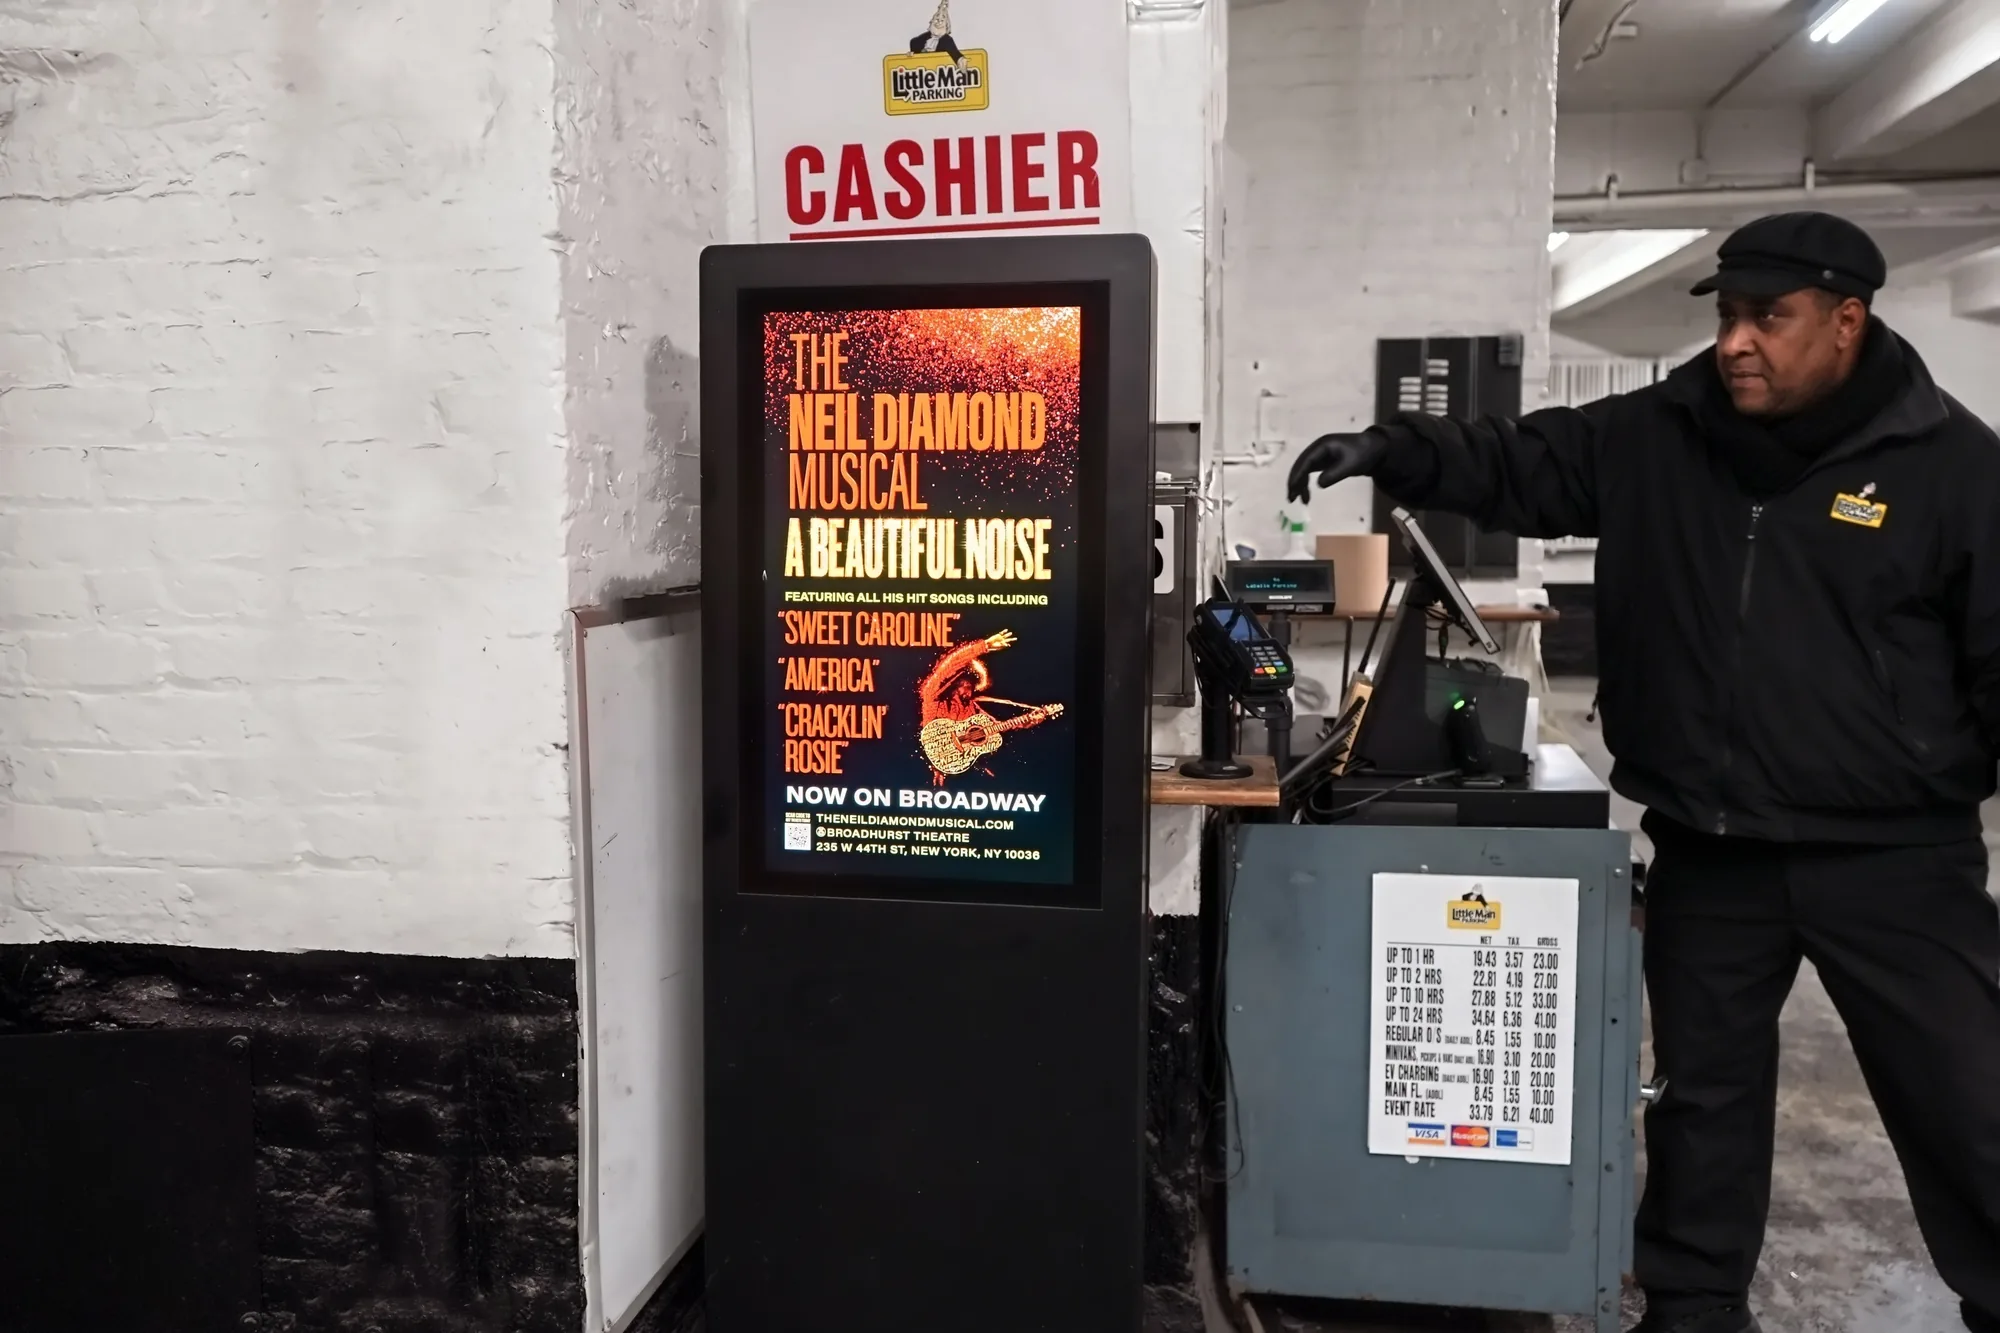
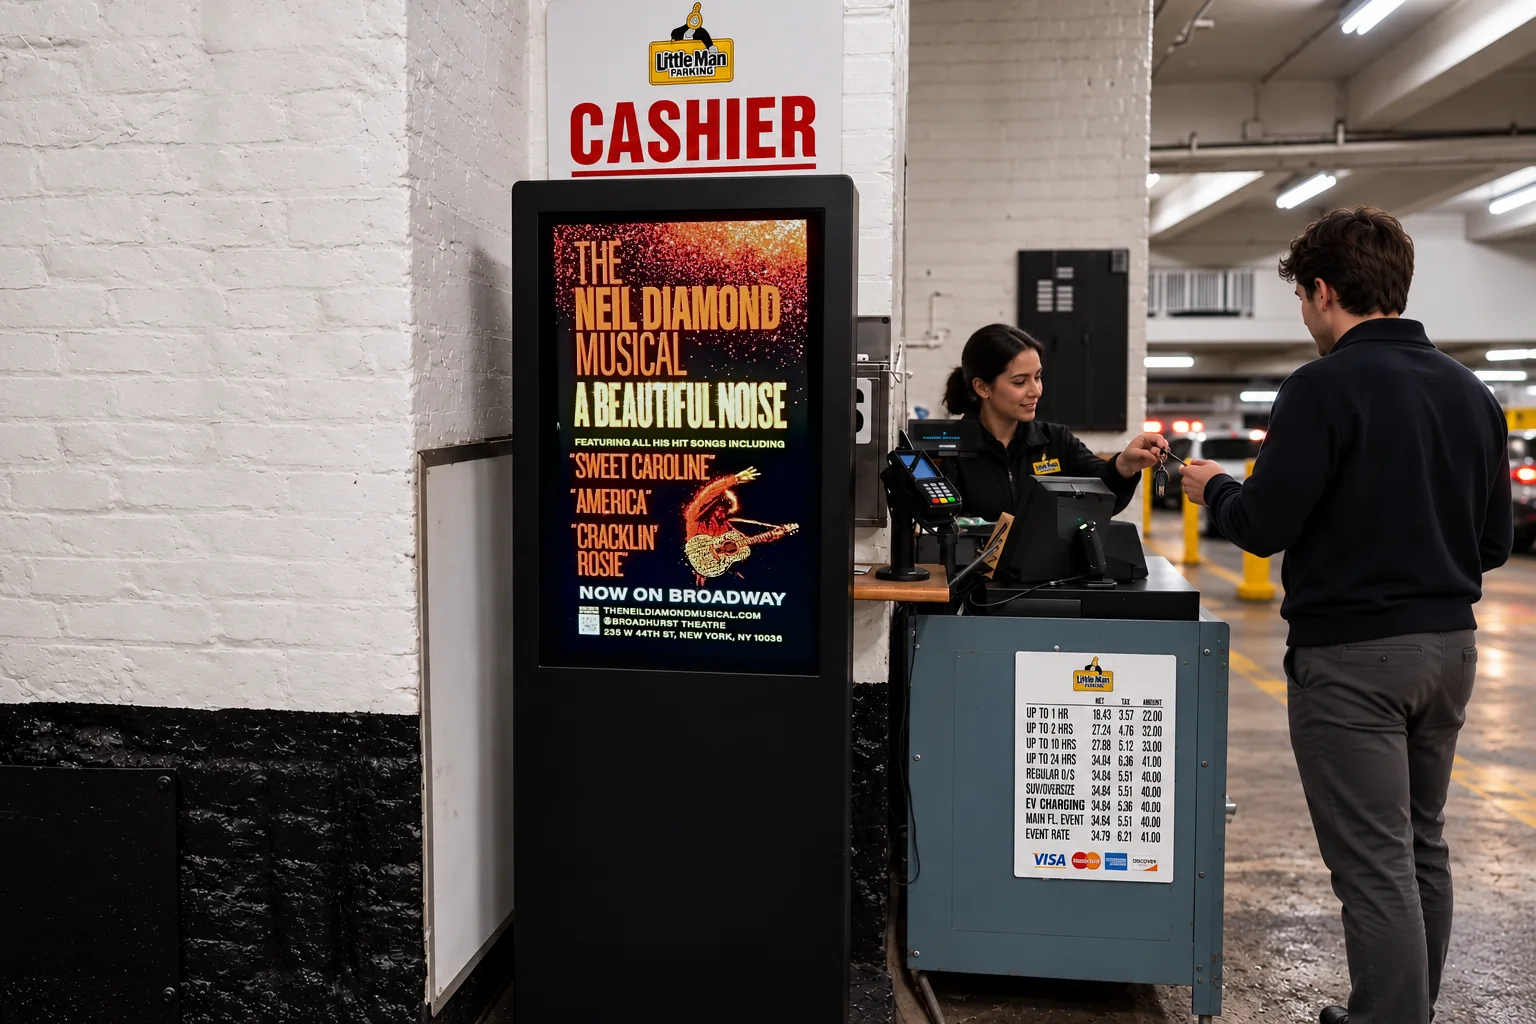
Fix home-page ad photos: real ad creative in new scenes, blue elevator wraps
- Lucid, United and A Beautiful Noise: new scene edits, with the original
  photographed screen (real creative, legal copy and QR codes) aligned and
  colour-matched back onto each display.
- United and A Beautiful Noise captioned "photo edited" on Home and Company;
  tile crops adjusted so the screen and people stay in frame.
- Hartford HealthCare elevator wraps: purple-to-blue hue and tone edit applied
  to the real photo at full resolution; all text, logos, helicopter markings
  and the floor directory are original pixels.
- Cache-busting ?v= hashes updated everywhere the four photos are used.
- README notes what was edited and why.

Claude-Session: https://claude.ai/code/session_01AkCNrgwNnwTd53czhfSVkS

diff --git a/components/pages/HomePage.jsx b/components/pages/HomePage.jsx
@@ -88,7 +88,7 @@ export default class HomePage extends React.Component {
       { name: 'Rate boards', biz: 'DIGITAL', stage: '02 · PARK', img: '/media/photos/ddrb-connecticut.webp?v=088e4141', pos: '50% 35%', href: '/formats#ddrb', desc: 'Live pricing up top, full-motion advertising below.', alt: 'A Lot Media digital rate board' },
       { name: 'Wallscapes', biz: 'STATIC', stage: '02 · PARK', img: '/media/photos/hartford-healthcare-wallscape.webp?v=0b3f98d9', pos: '50% 50%', href: '/formats#wallscape', desc: 'Large-format walls drivers face as they park.', alt: 'Hartford HealthCare wallscape' },
       { name: 'Digital panels', biz: 'DIGITAL', stage: '03 · WALK', img: '/media/photos/blank-street-interactive-panel.webp?v=6f1265ae', pos: '35% 50%', href: '/formats#panel', desc: 'Interactive screens — tap, scan and redeem.', alt: 'Man tapping his phone on an interactive digital panel' },
-      { name: 'Elevator wraps', biz: 'STATIC', stage: '03 · WALK', img: '/media/photos/hartford-healthcare-elevator-wraps.webp?v=20725f9d', pos: '50% 50%', href: '/formats#elevator', desc: 'Branded doors at the pause before the destination.', alt: 'Elevator door wraps' },
+      { name: 'Elevator wraps', biz: 'STATIC', stage: '03 · WALK', img: '/media/photos/hartford-healthcare-elevator-wraps.webp?v=30b1891b', pos: '50% 50%', href: '/formats#elevator', desc: 'Branded doors at the pause before the destination.', alt: 'Elevator door wraps' },
       { name: 'Events & venues', biz: 'EVENTS', stage: '04 · ACTIVATE', img: '/media/photos/stock-car-event.webp?v=d303b124', pos: '55% 50%', href: '/events', desc: 'Activations, VIP park & shuttle and game-day packages.', alt: 'Crowd filming a car at a live automotive event at night (stock photo)', stock: true }
     ];
     var pillars = [
@@ -531,7 +531,7 @@ export default class HomePage extends React.Component {
             </div>
             <div style={{ marginTop: "56px", display: "flex", flexWrap: "wrap", gap: "16px" }}>
               <figure className="alm-tile alm-wipe m-home-place" style={{ margin: "0", flex: "2 1 640px", height: "560px", position: "relative", overflow: "hidden", borderRadius: "16px", background: "#0B1220" }}>
-                <img className="m-home-lucid" src="/media/photos/lucid-digital-panel.webp?v=0437d0e2" alt="Travelers with luggage walking past a Lucid ad on an A Lot Media digital panel in a parking garage" style={{ width: "100%", height: "100%", objectFit: "cover", objectPosition: "40% 50%", display: "block" }} loading="lazy" decoding="async" />
+                <img className="m-home-lucid" src="/media/photos/lucid-digital-panel.webp?v=9b37ed49" alt="Travelers with luggage walking past a Lucid ad on an A Lot Media digital panel in a parking garage" style={{ width: "100%", height: "100%", objectFit: "cover", objectPosition: "40% 50%", display: "block" }} loading="lazy" decoding="async" />
                 <figcaption style={{ position: "absolute", left: "0", right: "0", bottom: "0", padding: "80px 28px 24px", background: "linear-gradient(180deg, rgba(11,18,32,0) 0%, rgba(11,18,32,0.82) 100%)", color: "#FFFFFF" }}>
                   <div style={{ display: "inline-flex", alignItems: "center", gap: "10px", marginBottom: "10px", fontSize: "15px", fontWeight: "600", letterSpacing: "-0.005em", opacity: "0.72" }}><span style={{ width: "7px", height: "7px", background: "#8FDCE8", borderRadius: "50%" }} />Digital</div>
                   <div style={{ fontSize: "22px", fontWeight: "650", letterSpacing: "-0.02em" }}>Lucid</div>
@@ -539,11 +539,11 @@ export default class HomePage extends React.Component {
                 </figcaption>
               </figure>
               <figure className="alm-tile alm-wipe m-home-place" style={{ margin: "0", flex: "1 1 320px", height: "560px", position: "relative", overflow: "hidden", borderRadius: "16px", background: "#0B1220" }}>
-                <img src="/media/photos/united-digital-panel.webp?v=f8d1849b" alt="United for Business ad on an A Lot Media digital panel beside a white sports car" style={{ width: "100%", height: "100%", objectFit: "cover", objectPosition: "30% 50%", display: "block" }} loading="lazy" decoding="async" />
+                <img src="/media/photos/united-digital-panel.webp?v=366cb758" alt="Commuters walking past a United for Business ad on an A Lot Media digital panel in a parking garage" style={{ width: "100%", height: "100%", objectFit: "cover", objectPosition: "19% 50%", display: "block" }} loading="lazy" decoding="async" />
                 <figcaption style={{ position: "absolute", left: "0", right: "0", bottom: "0", padding: "80px 28px 24px", background: "linear-gradient(180deg, rgba(11,18,32,0) 0%, rgba(11,18,32,0.82) 100%)", color: "#FFFFFF" }}>
                   <div style={{ display: "inline-flex", alignItems: "center", gap: "10px", marginBottom: "10px", fontSize: "15px", fontWeight: "600", letterSpacing: "-0.005em", opacity: "0.72" }}><span style={{ width: "7px", height: "7px", background: "#8FDCE8", borderRadius: "50%" }} />Digital</div>
                   <div style={{ fontSize: "22px", fontWeight: "650", letterSpacing: "-0.02em" }}>United</div>
-                  <div style={{ marginTop: "4px", fontSize: "14px", fontWeight: "600", color: "#D5DAE3" }}>Digital panel</div>
+                  <div style={{ marginTop: "4px", fontSize: "14px", fontWeight: "600", color: "#D5DAE3" }}>Digital panel · photo edited</div>
                 </figcaption>
               </figure>
               <figure className="alm-tile alm-wipe m-home-place" style={{ margin: "0", flex: "1 1 320px", height: "420px", position: "relative", overflow: "hidden", borderRadius: "16px", background: "#0B1220" }}>
@@ -555,11 +555,11 @@ export default class HomePage extends React.Component {
                 </figcaption>
               </figure>
               <figure className="alm-tile alm-wipe m-home-place" style={{ margin: "0", flex: "1 1 320px", height: "420px", position: "relative", overflow: "hidden", borderRadius: "16px", background: "#0B1220" }}>
-                <img src="/media/photos/a-beautiful-noise-panel.webp?v=2610293c" alt="A Beautiful Noise Broadway musical ad on a digital panel next to the garage cashier" style={{ width: "100%", height: "100%", objectFit: "cover", objectPosition: "50% 40%", display: "block" }} loading="lazy" decoding="async" />
+                <img src="/media/photos/a-beautiful-noise-panel.webp?v=d1e2b679" alt="A Beautiful Noise Broadway musical ad on a digital panel beside the garage cashier booth" style={{ width: "100%", height: "100%", objectFit: "cover", objectPosition: "93% 40%", display: "block" }} loading="lazy" decoding="async" />
                 <figcaption style={{ position: "absolute", left: "0", right: "0", bottom: "0", padding: "80px 28px 24px", background: "linear-gradient(180deg, rgba(11,18,32,0) 0%, rgba(11,18,32,0.82) 100%)", color: "#FFFFFF" }}>
                   <div style={{ display: "inline-flex", alignItems: "center", gap: "10px", marginBottom: "10px", fontSize: "15px", fontWeight: "600", letterSpacing: "-0.005em", opacity: "0.72" }}><span style={{ width: "7px", height: "7px", background: "#8FDCE8", borderRadius: "50%" }} />Digital</div>
                   <div style={{ fontSize: "22px", fontWeight: "650", letterSpacing: "-0.02em" }}>A Beautiful Noise</div>
-                  <div style={{ marginTop: "4px", fontSize: "14px", fontWeight: "600", color: "#D5DAE3" }}>Digital panel · Broadway</div>
+                  <div style={{ marginTop: "4px", fontSize: "14px", fontWeight: "600", color: "#D5DAE3" }}>Digital panel · Broadway · photo edited</div>
                 </figcaption>
               </figure>
               <figure className="alm-tile alm-wipe m-home-place" style={{ margin: "0", flex: "1 1 320px", height: "420px", position: "relative", overflow: "hidden", borderRadius: "16px", background: "#0B1220" }}>
@@ -571,7 +571,7 @@ export default class HomePage extends React.Component {
                 </figcaption>
               </figure>
               <figure className="alm-tile alm-wipe m-home-place" style={{ margin: "0", flex: "1 1 320px", height: "560px", position: "relative", overflow: "hidden", borderRadius: "16px", background: "#0B1220" }}>
-                <img src="/media/photos/hartford-healthcare-elevator-wraps.webp?v=20725f9d" alt="Hartford HealthCare LifeStar helicopter elevator door wraps" style={{ width: "100%", height: "100%", objectFit: "cover", display: "block" }} loading="lazy" decoding="async" />
+                <img src="/media/photos/hartford-healthcare-elevator-wraps.webp?v=30b1891b" alt="Hartford HealthCare LifeStar helicopter elevator door wraps" style={{ width: "100%", height: "100%", objectFit: "cover", display: "block" }} loading="lazy" decoding="async" />
                 <figcaption style={{ position: "absolute", left: "0", right: "0", bottom: "0", padding: "80px 28px 24px", background: "linear-gradient(180deg, rgba(11,18,32,0) 0%, rgba(11,18,32,0.82) 100%)", color: "#FFFFFF" }}>
                   <div style={{ display: "inline-flex", alignItems: "center", gap: "10px", marginBottom: "10px", fontSize: "15px", fontWeight: "600", letterSpacing: "-0.005em", opacity: "0.72" }}><span style={{ width: "7px", height: "7px", background: "#FFFFFF", borderRadius: "50%" }} />Static</div>
                   <div style={{ fontSize: "22px", fontWeight: "650", letterSpacing: "-0.02em" }}>Hartford HealthCare</div>
@@ -804,7 +804,7 @@ export default class HomePage extends React.Component {
                     </div>
                   </div>
                   <div style={{ borderRadius: "18px", overflow: "hidden", border: "1.5px solid #E3E5EA" }}>
-                    <img src="/media/photos/hartford-healthcare-elevator-wraps.webp?v=20725f9d" alt="" style={{ width: "100%", height: "90px", objectFit: "cover", display: "block" }} loading="lazy" decoding="async" />
+                    <img src="/media/photos/hartford-healthcare-elevator-wraps.webp?v=30b1891b" alt="" style={{ width: "100%", height: "90px", objectFit: "cover", display: "block" }} loading="lazy" decoding="async" />
                     <div style={{ padding: "10px 12px" }}>
                       <div style={{ fontSize: "14px", fontWeight: "600" }}>Elevator wraps</div>
                       <div style={{ fontSize: "12px", color: "#4E586A" }}>Static</div>

diff --git a/components/pages/CompanyPage.jsx b/components/pages/CompanyPage.jsx
@@ -19,14 +19,14 @@ export default class CompanyPage extends React.Component {
     var B = '';
     var gf = st.gf || 'all';
     var all = [
-      ['/media/photos/lucid-digital-panel.webp?v=0437d0e2', 'LUCID · DIGITAL PANEL · PHOTO EDITED', 'digital', 2, '40% 50%'],
+      ['/media/photos/lucid-digital-panel.webp?v=9b37ed49', 'LUCID · DIGITAL PANEL · PHOTO EDITED', 'digital', 2, '40% 50%'],
       ['/media/photos/mt-bank-ddrb.webp?v=9afe12a0', 'M&T BANK · RATE BOARD', 'digital', 1, '40% 50%'],
       ['/media/photos/bmw-digital-panel.webp?v=7d1522e8', 'BMW · DIGITAL PANEL', 'digital', 1, '30% 50%'],
-      ['/media/photos/united-digital-panel.webp?v=f8d1849b', 'UNITED · DIGITAL PANEL', 'digital', 1, '30% 50%'],
+      ['/media/photos/united-digital-panel.webp?v=366cb758', 'UNITED · DIGITAL PANEL · PHOTO EDITED', 'digital', 1, '19% 50%'],
       ['/media/photos/hartford-healthcare-wallscape.webp?v=0b3f98d9', 'HARTFORD HEALTHCARE · WALLSCAPE', 'static', 1, '50% 50%'],
       ['/media/photos/panera-now-open.webp?v=2fa97a26', 'PANERA BREAD · DIGITAL PANEL', 'digital', 1, '60% 50%'],
-      ['/media/photos/hartford-healthcare-elevator-wraps.webp?v=20725f9d', 'HARTFORD HEALTHCARE · ELEVATOR WRAP', 'static', 2, '50% 50%'],
-      ['/media/photos/a-beautiful-noise-panel.webp?v=2610293c', 'A BEAUTIFUL NOISE · DIGITAL PANEL', 'digital', 1, '50% 40%'],
+      ['/media/photos/hartford-healthcare-elevator-wraps.webp?v=30b1891b', 'HARTFORD HEALTHCARE · ELEVATOR WRAP', 'static', 2, '50% 50%'],
+      ['/media/photos/a-beautiful-noise-panel.webp?v=d1e2b679', 'A BEAUTIFUL NOISE · DIGITAL PANEL · PHOTO EDITED', 'digital', 1, '93% 40%'],
       ['/media/photos/msk-garage-entrance.webp?v=a0e27476', 'MSK · GARAGE ENTRANCE', 'digital', 1, '50% 50%'],
       ['/media/photos/getaround-elevator-wrap.webp?v=b5366622', 'GETAROUND · ELEVATOR WRAP', 'static', 2, '50% 50%'],
       ['/media/photos/recess-digital-panel.webp?v=4bc61cf2', 'RECESS · DIGITAL PANEL', 'digital', 1, '50% 50%'],

diff --git a/components/pages/FormatsPage.jsx b/components/pages/FormatsPage.jsx
@@ -24,7 +24,7 @@ export default class FormatsPage extends React.Component {
         specs: [['MARKETS', 'CT · LA · Chicago · Miami · Austin · Boston'], ['SIZE', 'Custom to each wall'], ['SCALE', 'One wall to every level'], ['PRODUCTION', 'Design, print & install']],
         cta: 'Add to plan', ctaHref: '/plan', ss: 'REQUEST ONLINE' },
       { kind: 'elevator', short: 'ELEVATOR WRAPS', name: 'Elevator wraps', type: 'STATIC', stage: '03 · WALK', stageName: 'Walk', best: 'Health, finance, local offers',
-        img: '/media/photos/hartford-healthcare-elevator-wraps.webp?v=20725f9d', pos: '50% 50%', alt: 'Hartford HealthCare LifeStar elevator door wraps', caption: 'HARTFORD HEALTHCARE · ELEVATOR WRAPS',
+        img: '/media/photos/hartford-healthcare-elevator-wraps.webp?v=30b1891b', pos: '50% 50%', alt: 'Hartford HealthCare LifeStar elevator door wraps', caption: 'HARTFORD HEALTHCARE · ELEVATOR WRAPS',
         desc: 'Branded elevator doors at the pause between the car and the destination. A captive moment, every single ride.',
         specs: [['MARKETS', 'CT · LA · Chicago · Miami · Austin · Boston'], ['SIZE', 'Custom to each elevator bank'], ['ON THE NETWORK', 'Hartford HealthCare · Getaround'], ['PRODUCTION', 'Design, print & install']],
         cta: 'Add to plan', ctaHref: '/plan', ss: 'REQUEST ONLINE' },

diff --git a/components/pages/InsightsPage.jsx b/components/pages/InsightsPage.jsx
@@ -39,7 +39,7 @@ export default class InsightsPage extends React.Component {
       ['EVENTS', 'The Event Space of the Future', 'the-event-space-of-the-future/', '/media/photos/stock-car-event.webp?v=d303b124', '55% 50%'],
       ['REAL ESTATE', 'Goodbye Garage, Hello Mobility Hub', 'goodbye-garage-hello-mobility-hub/', '/media/photos/msk-garage-entrance.webp?v=a0e27476', '50% 50%'],
       ['DIGITAL', 'Six Unique Benefits of Digital Out of Home Ads', 'six-unique-benefits-of-digital-out-of-home-ads/', '/media/photos/ddrb-connecticut.webp?v=088e4141', '50% 34%'],
-      ['ADVERTISING', 'How To Reach Your Audience at High-Impact Times', 'how-to-reach-your-audience-at-high-impact-times/', '/media/photos/united-digital-panel.webp?v=f8d1849b', '30% 50%'],
+      ['ADVERTISING', 'How To Reach Your Audience at High-Impact Times', 'how-to-reach-your-audience-at-high-impact-times/', '/media/photos/united-digital-panel.webp?v=366cb758', '19% 50%'],
       ['TECHNOLOGY', 'Smart Cities Infrastructure Beginning with Connected Parking Kiosks', 'smart-cities-infrastructure-beginning-with-connected-parking-kiosks/', '/media/photos/blank-street-interactive-panel.webp?v=6f1265ae', '30% 50%']
     ];
     var archive = [

diff --git a/components/pages/PlanPage.jsx b/components/pages/PlanPage.jsx
@@ -46,7 +46,7 @@ export default class PlanPage extends React.Component {
       ['Rate boards', 'Digital · custom slot length', '/media/photos/ddrb-connecticut.webp?v=088e4141', '50% 34%', true],
       ['Digital panels', 'Digital · interactive', '/media/photos/blank-street-interactive-panel.webp?v=6f1265ae', '30% 50%', true],
       ['Wallscapes', 'Static · per location', '/media/photos/hartford-healthcare-entrance-wallscape.webp?v=04dc2f7b', '50% 40%'],
-      ['Elevator wraps', 'Static · per bank', '/media/photos/hartford-healthcare-elevator-wraps.webp?v=20725f9d', '50% 50%'],
+      ['Elevator wraps', 'Static · per bank', '/media/photos/hartford-healthcare-elevator-wraps.webp?v=30b1891b', '50% 50%'],
       ['Gate arms', 'Static · entry & exit', '/media/renders/gate-arm-wrap.webp?v=1dedea94', '50% 50%'],
       ['Tickets', 'Static · branded tickets', '/media/renders/branded-ticket.webp?v=6c7f672f', '62% 50%']
     ];

diff --git a/README.md b/README.md
@@ -124,5 +124,6 @@ Deliberately left out, because the data room marks it confidential: financials a
   - The static and digital images in the home page's "One footprint" story are real installs (the Hartford HealthCare wallscape and the Connecticut rate board). Nano Banana 2.1 widened the scene around them; the ad and the screen are the original pixels.
 - **Retouched install photos.** All 37 install photos were retouched with Nano Banana 2.1 for brochure-style light and color. Pipes, cables and screen glare were removed, while every ad, sign and piece of text keeps the original pixels. The home gallery, the Company gallery and the Investors proof section say "photos retouched".
   - Two Lucid photos also have one or two adults turned to look at the screen. They are captioned "photo edited".
+  - Three home-page photos were re-edited in October 2026 and are captioned "photo edited" on Home and Company: `lucid-digital-panel` (scene re-lit), `a-beautiful-noise-panel` (cashier and customer added at the booth) and `united-digital-panel` (sports car removed, commuters added). In all three the ad on the screen is the original photo of the screen, aligned and color-matched back into the edited scene, so the brands' creative, legal copy and QR codes are untouched.
   - Investors and Insights use other photos or the unedited version (`lucid-garage-panel-unedited.webp`).
-  - Confirm the Hartford HealthCare elevator-wrap color. The retouch keeps the original purple.
+  - Confirm the Hartford HealthCare elevator-wrap color. In October 2026 the photo was regraded from purple to blue with a warmer sunset on the right wrap. This was a global hue and tone edit to the real photo (like a white-balance and HSL adjustment), so every word, the logos, the helicopter markings and the floor directory are the original pixels. An AI-regenerated version was rejected because it garbled "HARTFORD HOSPITAL" on the helicopter and recolored the Hartford HealthCare logo and the floor directory. Check the blue against the printed wraps.
